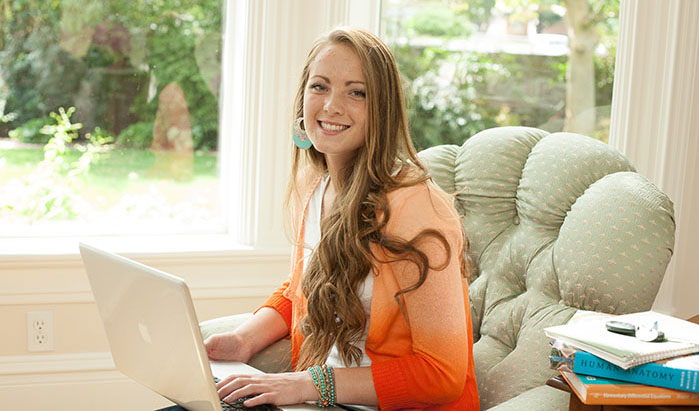
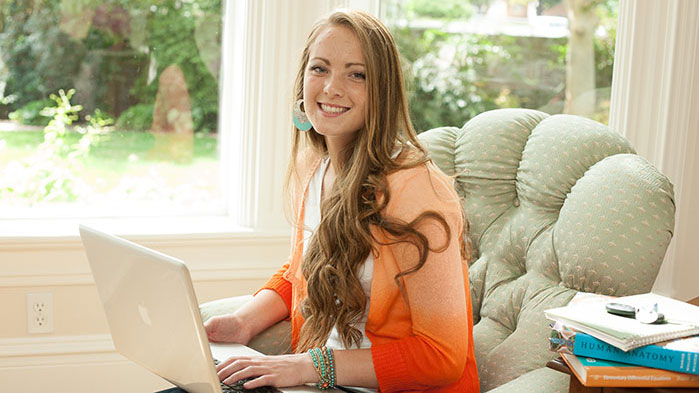
update image (girl) and resized (index)

diff --git a/index.html b/index.html
@@ -75,7 +75,7 @@
 				<ul id="slider">
 					<li class="feature bulleted-list">
 						<div class="feature-image">
-							<img src="images/slider/girl.jpg" alt="Student Using Laptop" width="699" height="411"/>
+							<img src="images/slider/girl.jpg" alt="Student Using Laptop"/>
 							<!-- <iframe width="699" height="393" src="https://www.youtube.com/embed/ym6Z8-hlhQc" frameborder="0" allowfullscreen></iframe> -->
 						</div>
 						<div data-background="#cee2ea" data-shadow="#cee2ea" class="feature-description">
